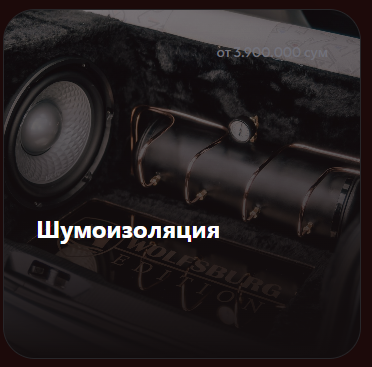
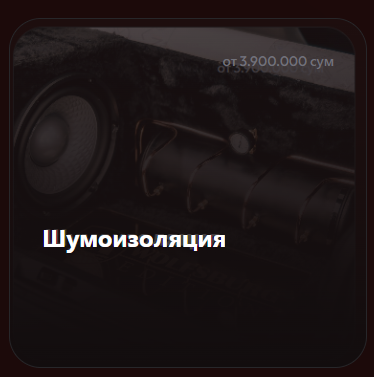
Шумоизоляция: новое превью без дубля текста в карточке

diff --git a/src/app/components/ServicesNew.tsx b/src/app/components/ServicesNew.tsx
@@ -68,6 +68,8 @@ type ServiceItem = {
   featured: boolean;
   badge?: string;
   priceOnRequest?: boolean;
+  /** Превью уже содержит заголовок и цену в макете — не дублировать текст в UI */
+  coverHasLabels?: boolean;
 };
 
 export function ServicesNew() {
@@ -140,6 +142,7 @@ export function ServicesNew() {
       icon: VolumeX,
       image: serviceSoundproofingImage,
       featured: false,
+      coverHasLabels: true,
     },
     {
       id: "pdr",
@@ -407,15 +410,19 @@ export function ServicesNew() {
               onClick={() => openBooking(service)}
               className="group relative isolate flex min-h-[300px] cursor-pointer flex-col overflow-hidden rounded-[2rem] border border-zinc-800 bg-zinc-900/50 transform-gpu transition-[border-color,transform] duration-300 ease-out hover:-translate-y-1 hover:border-red-900/30 sm:min-h-[350px]"
             >
-              <div className="absolute inset-0 opacity-[0.48] transition-opacity duration-300 group-hover:opacity-55">
+              <div
+                className={`absolute inset-0 transition-opacity duration-300 group-hover:opacity-55 ${service.coverHasLabels ? "opacity-[0.62]" : "opacity-[0.48]"}`}
+              >
                 <img
                   src={service.image}
                   alt={service.title}
                   loading="lazy"
                   decoding="async"
-                  className="h-full w-full object-cover brightness-[1.1] saturate-[1.05]"
+                  className={`h-full w-full object-cover saturate-[1.05] ${service.coverHasLabels ? "brightness-[1.14]" : "brightness-[1.1]"}`}
                 />
-                <div className="absolute inset-0 bg-gradient-to-t from-zinc-950 via-zinc-950/45 to-transparent" />
+                <div
+                  className={`absolute inset-0 bg-gradient-to-t from-zinc-950 ${service.coverHasLabels ? "via-zinc-950/35" : "via-zinc-950/45"} to-transparent`}
+                />
               </div>
 
               {service.priceOnRequest && (
@@ -429,20 +436,27 @@ export function ServicesNew() {
               )}
 
               <div className="relative flex-1 p-6 md:p-8 flex flex-col z-10 min-h-0">
-                <div className="flex items-start justify-end min-h-[24px] shrink-0">
-                  {!service.priceOnRequest && (
-                    <span className="text-sm font-medium transition-colors text-zinc-500 group-hover:text-cartello-beige">
-                      {service.price}
-                    </span>
-                  )}
-                </div>
+                <p className="sr-only">
+                  {service.title}. {service.price}. {service.description}
+                </p>
+                {!service.coverHasLabels && (
+                  <div className="flex items-start justify-end min-h-[24px] shrink-0">
+                    {!service.priceOnRequest && (
+                      <span className="text-sm font-medium transition-colors text-zinc-500 group-hover:text-cartello-beige">
+                        {service.price}
+                      </span>
+                    )}
+                  </div>
+                )}
 
                 <div className="mt-auto flex flex-col gap-3 pt-2">
-                  <div className="flex min-h-[4.5rem] w-full flex-col justify-start sm:min-h-[5.25rem] md:min-h-[6rem]">
-                    <h3 className="break-words text-2xl font-bold leading-tight text-white transition-transform duration-200 group-hover:translate-x-1">
-                      {service.title}
-                    </h3>
-                  </div>
+                  {!service.coverHasLabels && (
+                    <div className="flex min-h-[4.5rem] w-full flex-col justify-start sm:min-h-[5.25rem] md:min-h-[6rem]">
+                      <h3 className="break-words text-2xl font-bold leading-tight text-white transition-transform duration-200 group-hover:translate-x-1">
+                        {service.title}
+                      </h3>
+                    </div>
+                  )}
                   <div className="grid grid-rows-[1fr] transition-[grid-template-rows] duration-300 ease-out md:grid-rows-[0fr] md:group-hover:grid-rows-[1fr]">
                     <div className="min-h-0 overflow-hidden pb-1">
                       <p className="text-sm leading-relaxed text-zinc-400 transition-colors duration-200 md:text-base md:group-hover:text-zinc-300">
